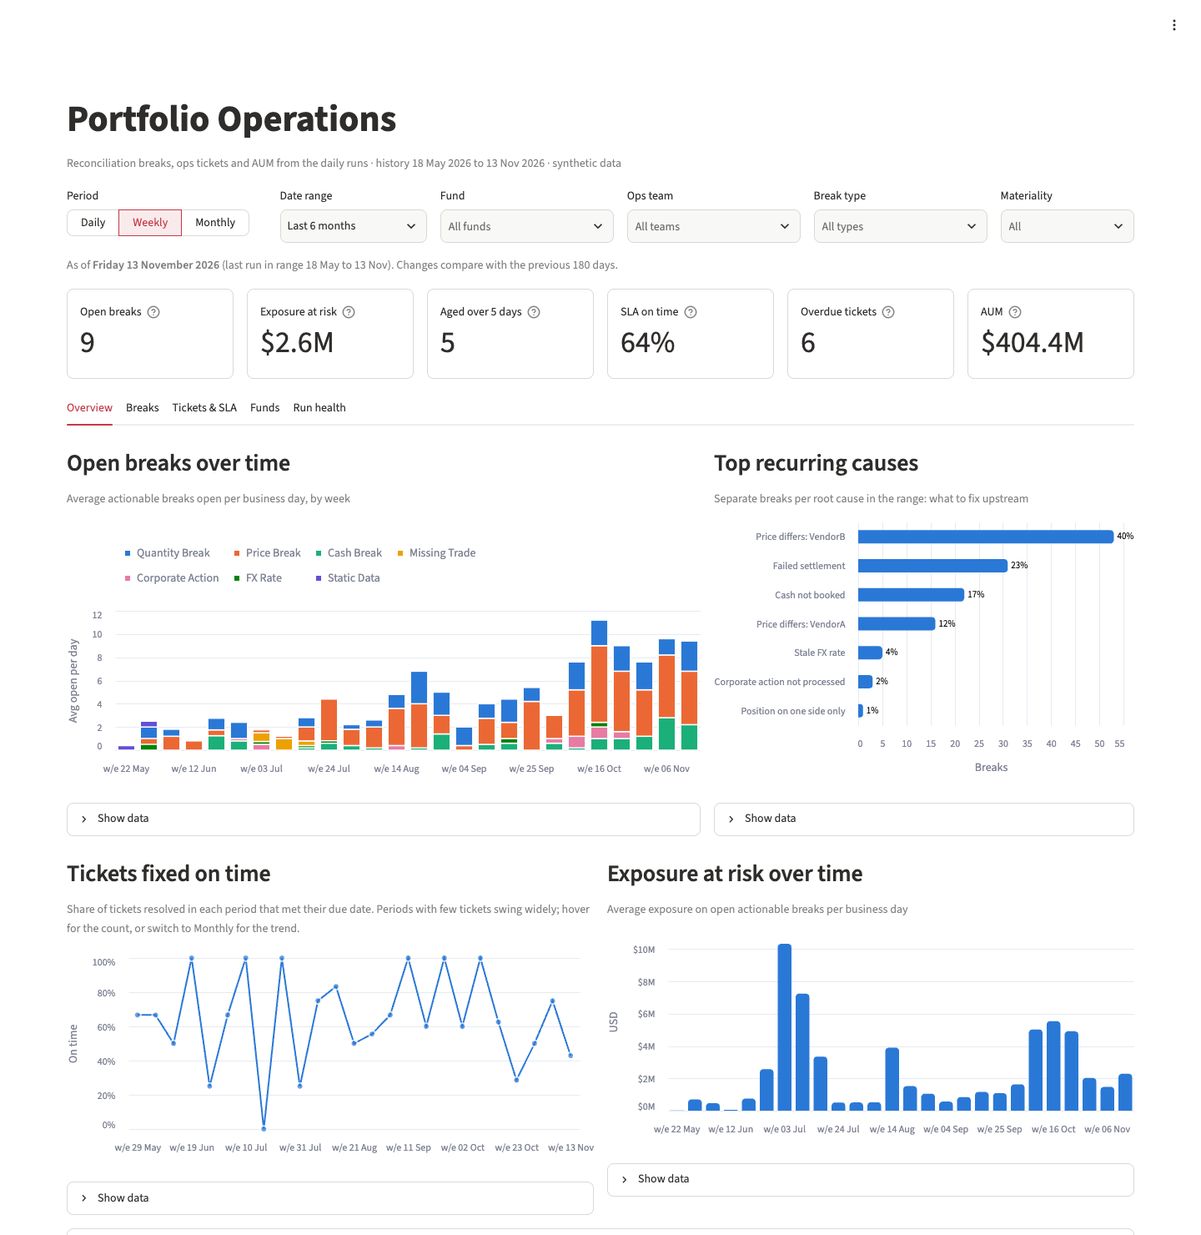
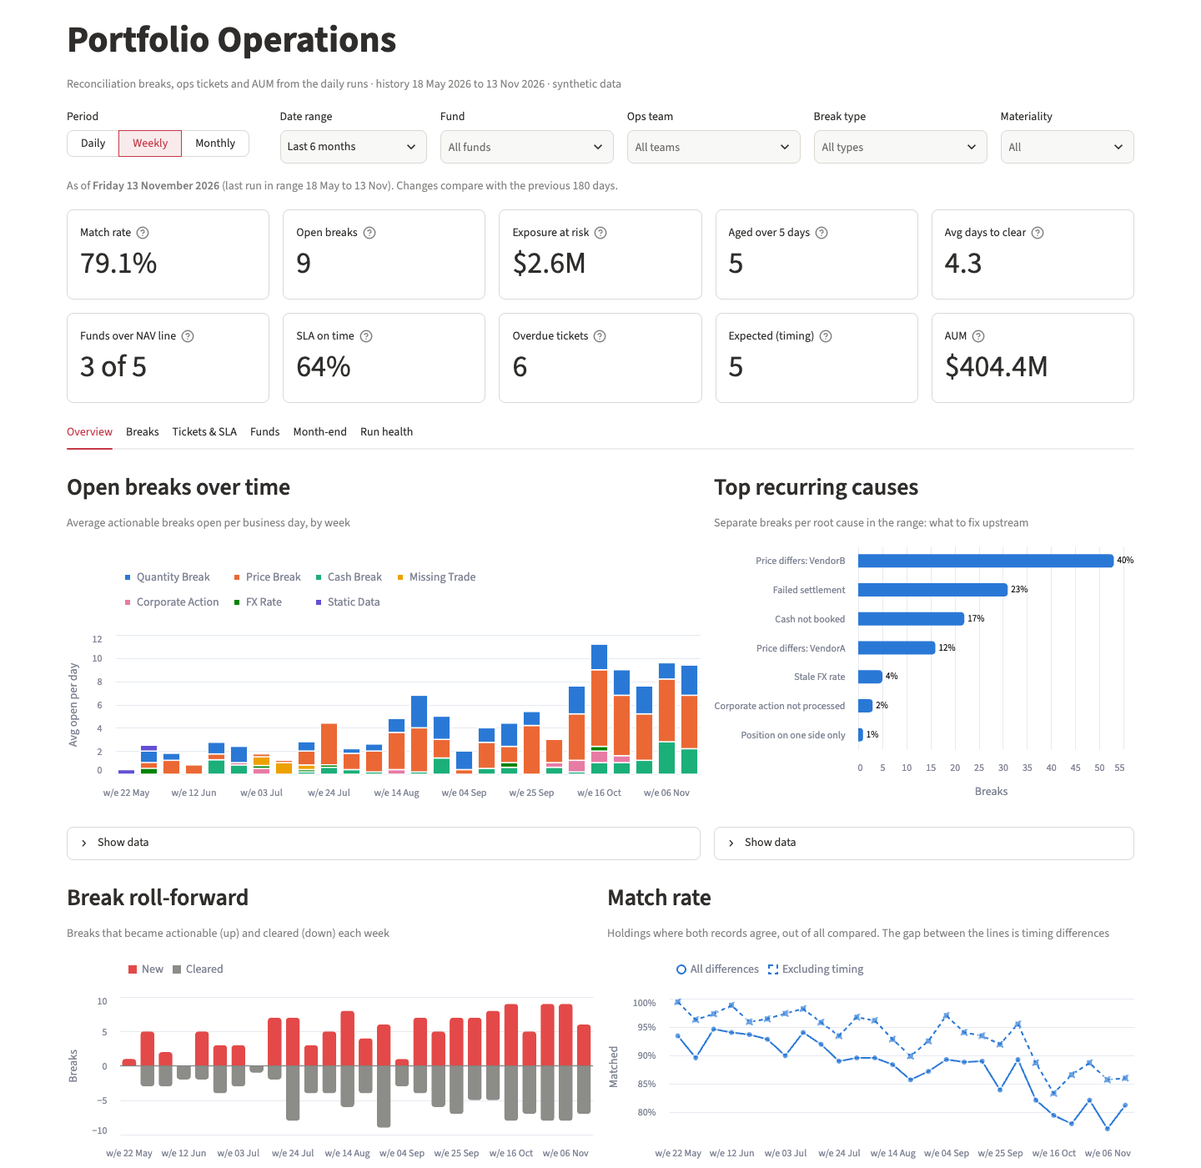
Docs for industry KPIs and month-end sign-off (fixes #33) (#34)
- README: four products for four audiences, the dashboard tabs, the monthly
  pack, the monthend command, the sample-data story, a new screenshot.
- CONCEPTS: how the operation is measured (match rate, aging, roll-forward,
  days to clear, potential NAV impact and why failed settlements are
  excluded, month-end sign-off) and nine glossary terms.
- ARCHITECTURE: schema v2 and its migration, the new dashboard definitions,
  the month-end module, the tests table.
- RUNBOOK: month-end procedure and troubleshooting rows.

diff --git a/README.md b/README.md
@@ -2,8 +2,9 @@
 
 A Python pipeline that checks an investment firm's two records of what its
 funds own against each other **every business day**, keeps the history, and
-turns it into three products: a daily to-do list for operations analysts, a
-weekly report, and a leadership dashboard.
+turns it into four products: a daily to-do list for operations analysts, a
+weekly report, a leadership dashboard, and a month-end sign-off pack for fund
+controllers.
 
 > A self-directed project modelling a real reporting workflow in asset
 > management. All data is synthetic.
@@ -11,7 +12,7 @@ weekly report, and a leadership dashboard.
 **New to this industry?** Start with [docs/CONCEPTS.md](docs/CONCEPTS.md): the
 business explained with everyday analogies and a glossary.
 
-![Leadership dashboard: KPI tiles, open breaks over time by type, top recurring causes, SLA and exposure trends](docs/images/dashboard_overview.png)
+![Leadership dashboard: match rate, open breaks, exposure, aging, days to clear, funds over the NAV line, SLA; open breaks over time by type, top recurring causes, break roll-forward and match rate trends](docs/images/dashboard_overview.png)
 
 ## The problem, in plain English
 
@@ -35,15 +36,16 @@ it is agreed but reaches the bank a day or two later. Those are **Expected**
 and need no action. The rest are **Actionable** and get a Jira ticket with a
 deadline.
 
-## Three products, three audiences
+## Four products, four audiences
 
 | Product | Who uses it | Question it answers | How often |
 |---|---|---|---|
 | **Exceptions file** (Excel) | Ops analysts | What do I need to fix today, most urgent first? | Every business day |
-| **Weekly report** (Excel, 7 tabs) | Ops leads, fund controllers | Where do we stand this week: breaks, fund values, ticket deadlines? | Weekly |
-| **Dashboard** (web) | Managers, leadership | Are we keeping up? Which team, fund or root cause is the problem? Daily, weekly or monthly | Any time |
+| **Weekly report** (Excel, 7 tabs) | Ops leads | Where do we stand this week: breaks, fund values, ticket deadlines? | Weekly |
+| **Dashboard** (web) | Managers, leadership | Are we keeping up? Which team, fund or root cause is the problem? Could any fund's price be wrong? Daily, weekly or monthly | Any time |
+| **Month-end sign-off pack** (Excel) | Fund controllers | Is each fund ready to sign off for the month, and if not, why not? | Monthly |
 
-All three read the same daily results, so they cannot disagree with each other.
+All four read the same daily results, so they cannot disagree with each other.
 
 ## Pain points this solves
 
@@ -56,6 +58,9 @@ All three read the same daily results, so they cannot disagree with each other.
 | "They don't match" with no idea why | Each break is labelled with a type, a likely cause, and an ID it keeps until it is fixed |
 | Nobody knows which tickets are late | Each break is linked to its Jira ticket; open, overdue and on-time rates per team |
 | Leadership sees today, never the trend | Six months of daily history, viewable by day, week or month, with the top recurring causes |
+| "How many breaks?" doesn't say whether we're keeping up | Industry measures: match rate, aging bands, a break roll-forward (opened, cleared, still open) and average days to clear |
+| Nobody can say whether a break could make a fund's price wrong | Potential NAV impact per fund in cents per share, against the 1-cent and 0.5% lines used in US fund practice |
+| Month-end sign-off is a scramble through spreadsheets | Five checks per fund give Ready to sign or Needs attention, with the reasons, in a pack ready to sign |
 | An upstream change breaks the script at 7am | A runbook maps each error message to a cause and an action; a failed day is recorded, not skipped silently |
 
 ## How it works, end to end
@@ -83,6 +88,7 @@ flowchart LR
         X1["Exceptions file<br/>analysts, daily"]
         X2["Weekly report<br/>ops leads"]
         D["Dashboard<br/>leadership"]
+        M["Sign-off pack<br/>controllers, monthly"]
     end
 
     C --> V
@@ -94,6 +100,7 @@ flowchart LR
     V -->|"yes"| R --> E --> T --> H
     T --> X1
     H --> D
+    H --> M
     R -.-> X2
 ```
 
@@ -106,7 +113,8 @@ flowchart LR
    appears until it clears, and is linked to its ticket.
 3. **History.** Each day's results are saved, including days that failed.
 4. **Products.** The analysts' exceptions file is written each morning; the
-   dashboard reads the history; the weekly report runs on Fridays.
+   dashboard reads the history; the weekly report runs on Fridays; the
+   sign-off pack is built from the history once the month is over.
 
 The step-by-step technical version, with a module map, is in
 [docs/ARCHITECTURE.md](docs/ARCHITECTURE.md).
@@ -126,13 +134,26 @@ The step-by-step technical version, with a module map, is in
 tabs: Summary, Breaks, AUM, Ops SLA, Overdue Tickets, Data Quality, Run Info.
 
 **Dashboard:** filters for period (daily, weekly, monthly), date range, fund,
-ops team, break type and materiality. Tabs: Overview, Breaks, Tickets & SLA,
-Funds, Run health.
+ops team, break type and materiality.
 
-In the sample data (six months to 13 Nov 2026): 5 funds worth $404M; open
-breaks per day roughly triple from October as fixes slow down; the top
-recurring cause is one pricing vendor (40% of breaks). That is the kind of
-pattern the dashboard is built to surface.
+| Tab | What it shows |
+|---|---|
+| Overview | Ten headline tiles; open breaks over time by type; top recurring causes; break roll-forward; match rate; tickets fixed on time; exposure |
+| Breaks | Aging profile over time and today; every open break; securities that keep breaking |
+| Tickets & SLA | Each ops team's open, overdue and on-time figures; ticket ages |
+| Funds | Per fund: AUM, match rate, open breaks; potential NAV impact against the 1-cent line; AUM over time |
+| Month-end | Each fund Ready to sign or Needs attention, the five checks, and the pack to download |
+| Run health | Every business day OK, failed or missing; data-quality findings |
+
+**Monthly:** `output/monthend/<yyyy-mm>/monthend_signoff_<yyyymm>.xlsx` with
+tabs Sign-off, Checks, Open at Month-end, Roll-forward, NAV Impact, Run Log.
+
+In the sample data (six months to 13 Nov 2026): 5 funds worth $404M. From
+October, open breaks per day roughly triple and the match rate falls from about
+92% to 79%. The top recurring cause is one pricing vendor (40% of breaks), and
+its wrong prices are what push funds over the 1-cent NAV line. In October only
+1 of 5 funds is ready to sign at month-end, against 3 of 5 in June. That is the
+kind of pattern the dashboard is built to surface.
 
 ## Try it
 
@@ -153,6 +174,9 @@ python3 -m venv .venv && .venv/bin/pip install -r requirements-dev.txt
 # One day, as an analyst would each morning
 .venv/bin/python -m opsreport daily --as-of 2026-11-13
 
+# The month-end sign-off pack for October
+.venv/bin/python -m opsreport monthend --month 2026-10
+
 # The weekly report (sample files are included)
 .venv/bin/python -m opsreport run --as-of 2026-11-13 --prior 2026-11-06
 
@@ -164,6 +188,7 @@ python3 -m venv .venv && .venv/bin/pip install -r requirements-dev.txt
 |---|---|
 | `daily --as-of DATE` | Reconcile one business day, save it to the history, write the exceptions file |
 | `backfill --from A --to B` | Run every business day in a range, in order. A bad day is recorded and the rest continue |
+| `monthend --month YYYY-MM` | The month-end sign-off pack, from the history |
 | `run --as-of DATE --prior DATE` | The weekly report |
 | `run ... --jira live` | Pull tickets from Jira now (needs `.env`) instead of the saved copy |
 | `run ... --commentary local-llm` | Have a local AI model write the summary; see [AI commentary](docs/AI_COMMENTARY.md) |
@@ -197,6 +222,7 @@ opsreport/          the application
   daily.py          the daily run and backfill
   history.py        the SQLite history store
   dashboard_data.py every number on the dashboard
+  monthend.py       the month-end sign-off checks
   pipeline.py       the weekly run
 dashboard/app.py    the leadership dashboard (Streamlit)
 config/             settings: column names, tolerances, holidays, funds
@@ -226,7 +252,8 @@ optionally Ollama for a local language model.
 ## Limits
 
 This is a learning project, not production software. The data is synthetic;
-fund value is simplified to total assets; one holiday calendar is used for all
+fund value is simplified to total assets; the funds are small and their shares
+outstanding fixed, so the NAV-impact figures are illustrative; one holiday calendar is used for all
 markets; trades don't move cash; tickets in the daily history are generated
 alongside the breaks rather than created in Jira (creating them automatically
 is the next step); and the AI fact-checker catches wrong numbers, not every

diff --git a/docs/ARCHITECTURE.md b/docs/ARCHITECTURE.md
@@ -220,19 +220,25 @@ field is needed. Ticket status is computed *as of the run date* (Open, Overdue,
 Resolved), not taken from Jira's current status, so history stays true to the
 day. A ticket whose own dates are incomplete is linked but shown as Unknown.
 
-**History store** (`history.py`, SQLite, schema version checked on open):
+**History store** (`history.py`, SQLite, schema version 2):
 
 | Table | One row per | Holds |
 |---|---|---|
 | `runs` | business day | status OK / FAILED, counts, actionable $, errors, warnings, message, git commit, input fingerprints |
 | `breaks` | day and break | type, status, explanation, likely cause, exposure, materiality, pricing vendor, first seen, days open, ticket and its status that day |
-| `aum_daily` | day and fund | AUM components and the custodian total |
+| `aum_daily` | day and fund | AUM components, the custodian total, holdings compared (for the match rate) and shares outstanding (for NAV impact) |
 | `data_quality` | finding | severity, rule, detail, record |
 | `tickets` | ticket | the latest Jira snapshot, with each ticket's break ID |
 
 Saving a day deletes and re-inserts that day's rows in one transaction, so a
 re-run is safe and a crash leaves the previous version intact. A failed day
 is saved with its errors and no breaks.
+
+The schema version lives in `PRAGMA user_version`. Opening an older database
+upgrades it in place (`MIGRATIONS`: version 1 → 2 adds the two `aum_daily`
+columns). Days saved before a column existed keep NULL there, and the dashboard
+shows n/a for them rather than a wrong number; a backfill fills them in. A
+database from a *newer* version of the code is refused.
 
 **Backfill** runs each business day in order (NYSE calendar), records a bad
 day and continues, writes the exceptions file only for the last day, and exits
@@ -252,10 +258,37 @@ from `opsreport/dashboard_data.py`, which is unit-tested:
 | SLA on time | Tickets resolved in the range (or period) that met their due date |
 | AUM over time | Value on the last run of each period |
 | Recurring causes | Separate breaks per root cause (failed settlement, price by vendor, ...), not days, so one stuck break can't dominate |
+| Match rate | 1 − breaks ÷ holdings compared (a holding on either side counts once). Second line leaves out Expected breaks. Only the fund filter applies |
+| Aging profile | Open breaks per day by age band (`aging_bands` in `config/recon.yaml`); the 6+ bands equal the "aged over 5 days" tile |
+| Roll-forward | Per successful run: *new* = actionable today but not on the previous run; *cleared* = the reverse. Failed days are skipped, so opening + new − cleared = closing holds exactly for any filter and grain |
+| Days to clear | Business days from first seen to the run on which the break was gone |
+| NAV impact | Per fund: sum of signed `base_mv_diff` on actionable breaks, excluding failed settlements, ÷ shares outstanding (cents per share) and ÷ AUM (% of NAV). Levels from `nav_impact` in `config/recon.yaml` |
 
 Weekly periods end on Friday; monthly periods start on the 1st. The chart
 colours are a fixed, colour-blind-checked palette: each break type keeps its
 colour under any filter, and every chart has a table view.
+
+## Month-end sign-off
+
+`monthend.py` builds a `MonthEnd` for a calendar month from the same history
+and the same `dashboard_data` functions, so the pack, the dashboard tab and
+the daily figures can't disagree. Five checks per fund on the month's last
+business day:
+
+| Check | Source |
+|---|---|
+| Every day reconciled | `runs`: no FAILED day, no business day without a run |
+| No high-materiality break | open actionable breaks with materiality High |
+| NAV impact under 1¢ a share | `nav_impact_daily` on that day |
+| No break older than 10 days | `days_open` above the last age band |
+| No overdue ticket | tickets open and past due *as of* that day |
+
+Status: Ready to sign (all pass), Needs attention (reasons listed by problem,
+e.g. `Overdue tickets: 1 (OPSREC-107)`), or In progress (the last business day
+hasn't run yet; checks show where the fund would stand today).
+`report/monthend_report.py` writes the pack (Sign-off with blank sign-off
+columns, Checks, Open at Month-end, Roll-forward, NAV Impact, Run Log) to a
+file for `opsreport monthend` or to memory for the dashboard's download button.
 
 ## Security
 
@@ -290,7 +323,8 @@ colour under any filter, and every chart has a table view.
 | `test_ai_commentary.py` | The fact-checker rejects wrong drafts and accepts correct ones |
 | `test_daily_data.py` | The daily generator: every day reconciles exactly to its answer key; tickets link to breaks; the trend is present |
 | `test_daily_run.py` | Pending-trade rules, loader validation, break IDs and days open, point-in-time ticket status, idempotent re-runs, failed days, the exceptions file, CLI |
-| `test_dashboard.py` | Dashboard figures against direct calculations, filters, grouping consistency across grains, run health, and the real app rendered with every grain and filter |
+| `test_dashboard.py` | Dashboard figures against direct calculations, filters, grouping consistency across grains, run health, exact identities (roll-forward, aging bands, match-rate counts), failed settlements never reaching NAV impact, and the real app rendered with every grain and filter |
+| `test_monthend.py` | A hand-built clean month is Ready to sign; each check is then failed alone and must fail only that fund and check; failed and missing days; a month in progress; the pack's tabs and rows; CLI errors |
 
 Tests read a frozen copy of the Jira snapshot (`tests/fixtures/snapshots/`), so
 replacing the real one with a fresh pull can't change test results.
@@ -315,6 +349,8 @@ CI (GitHub Actions) runs on every push and pull request:
 - **One source of truth.** The exceptions file, the dashboard and every period
   view read the same daily rows.
 - **Known simplifications.** One holiday calendar for all markets; AUM is total
-  assets, not net of liabilities; each position gets one break type even if two
+  assets, not net of liabilities; shares outstanding are fixed per fund (real
+  funds update them daily); the synthetic funds are small, so ordinary breaks
+  cross the 1-cent line more often than at a large fund; each position gets one break type even if two
   things are wrong; trades don't move cash; daily tickets are generated with
   the data rather than created in Jira; all data is synthetic.

diff --git a/docs/CONCEPTS.md b/docs/CONCEPTS.md
@@ -137,6 +137,59 @@ sample data one pricing vendor ("VendorB") is behind 40% of all breaks: a
 conversation with that vendor would prevent more breaks than any amount of
 faster fixing.
 
+## How the operation is measured
+
+Counting today's breaks says little on its own. These are the measures
+reconciliation teams and fund controllers use across the industry, and the
+ones the dashboard shows.
+
+**Match rate.** Of all the holdings compared today, the share where both
+records agree. 67 holdings, 14 with a difference: 79% matched. Shown twice:
+counting every difference, and leaving out timing differences (which fix
+themselves). A falling match rate is the earliest sign that something upstream
+has changed.
+
+**Aging.** How long open breaks have been open, in bands: 0–1, 2–5, 6–10 and
+11+ business days. A new break is normal; one that is three weeks old means
+nobody can fix it, or nobody is trying. Like an unpaid-invoices report sorted
+by how overdue each one is.
+
+**Roll-forward.** Opening breaks + new − cleared = closing breaks, for each
+week or month. Like a bank statement: opening balance, money in, money out,
+closing balance. If more break each week than get fixed, the backlog grows
+even when every single break is handled well.
+
+**Days to clear.** For breaks that were fixed: business days from first
+appearing to gone. Here, 4.3 on average.
+
+**Potential NAV impact.** A fund's price per share (its NAV) is worked out
+from the accounting books. If a break means the *books* are wrong, the price is
+wrong. Net up a fund's unexplained breaks and divide by its shares: that is how
+far the price could be off. Two lines are common US practice:
+
+| Price off by | What usually happens |
+|---|---|
+| Under 1 cent a share | Treated as immaterial |
+| 1 cent a share or more | A **NAV error**: reported to the fund's board, and the fund is usually reimbursed |
+| 0.5% of NAV or more | Investors' purchases and redemptions at the wrong price are **reprocessed** |
+
+Two kinds of break are left out, because the books are right in both:
+*timing* breaks (the trade is agreed but not yet delivered) and *failed
+settlements* (the delivery date has passed but the other side hasn't
+delivered). Funds record trades on the trade date, so in both cases the books
+already show the correct holding and the custodian is the one waiting. A failed
+settlement is a settlement risk to chase, not a pricing error. It is called
+*potential* impact because breaks are normally fixed before the day's price is
+struck.
+
+**Month-end sign-off.** Once a month a fund controller signs that each
+fund's records were reconciled. A fund is **Ready to sign** when, on the
+month's last business day: every business day was reconciled, no
+high-value break is open, the NAV impact is under 1 cent a share, no break is
+older than 10 business days, and no ticket is overdue. Otherwise it **Needs
+attention**, with the reasons listed, and the controller either waits for a
+fix or writes down why the open item is acceptable.
+
 ## The numbers on the report
 
 **Market value (MV).** What a holding is worth: quantity × price.
@@ -174,19 +227,29 @@ holidays such as Thanksgiving.
 | Book of record | The official version of the truth; here, fund accounting |
 | Actionable break | A break someone has to investigate and fix |
 | Aged break | An actionable break open more than 5 business days |
+| Aging bands | Open breaks grouped by age: 0–1, 2–5, 6–10, 11+ business days |
+| Days to clear | Business days from a break first appearing to it being gone |
 | Break | A difference between the custodian's record and the accounting record |
 | Break ID | The name a break keeps from the day it appears until it clears, e.g. `BRK-20261113-EMD-<ISIN>` |
 | Control total | The total printed on a statement, used to check that every row was read |
 | Custodian | The bank that holds a fund's assets for safekeeping |
+| Fund controller | The person accountable for a fund's books; signs off its reconciliation each month |
 | Expected break | A break fully explained by a trade that hasn't reached its settlement date yet |
 | Depository | The central institution where securities are ultimately held (e.g. DTC in the US, Euroclear in Europe). A custodian may hold one position across several |
+| Match rate | The share of holdings compared where both records agree |
+| Month-end sign-off | A controller's monthly confirmation that a fund's records were reconciled; open items are explained |
 | ISIN | A 12-character code that uniquely identifies a security worldwide; the last character is a check digit |
 | Lot | One row of a holding on the custodian statement, when a holding is split across locations |
 | NAV | Net asset value: what a fund is worth; the basis for its price per share |
+| NAV error | The published price per share was wrong by 1 cent or more; reported to the fund's board |
+| NAV impact (potential) | How far a fund's price per share would be off if its open unexplained breaks are errors in the books |
+| Reprocessing | Redoing investors' purchases and redemptions at the corrected price, usually for an error of 0.5% of NAV or more |
+| Roll-forward | Opening + new − cleared = closing, for breaks in a period |
 | Failed settlement | A trade whose settlement date passed without the shares or cash arriving |
 | Pending trade | A trade booked in the accounting books but not yet settled at the custodian |
 | Position | How much of one security a fund holds |
 | Security | Anything tradeable a fund holds: a share, a bond, an ETF |
+| Shares outstanding | How many shares of a fund investors hold; NAV ÷ shares = price per share |
 | Security master | The reference list of facts about each security (name, currency, type) |
 | Root cause | Why a break happened (a vendor's price, a late settlement); counting them shows what to fix upstream |
 | Settlement | The moment shares and cash actually change hands, usually one business day after the trade is agreed |

diff --git a/docs/RUNBOOK.md b/docs/RUNBOOK.md
@@ -5,6 +5,7 @@ business day, keep the history, and report it: a daily exceptions file for
 analysts, a weekly report for ops leads, and a dashboard for leadership.
 **Cadence:** Daily run each business morning for the previous business day.
 Weekly report for the Friday date, Monday before the 10:00 ops review.
+Month-end sign-off pack after the month's last business day has run.
 **Owner:** Reporting analyst. **Consumers:** Ops analysts and leads
 (Reconciliation, NAV Oversight, Trade Support, Corporate Actions, Reference
 Data), fund controllers, operations leadership.
@@ -59,6 +60,24 @@ It shows whatever is in the history: run the daily job first. The **Run
 health** tab shows every business day as OK, FAILED or missing; check it
 before presenting numbers. "As of" on the dashboard is the last *successful*
 run in the selected range.
+
+### Month-end sign-off
+After the last business day of the month has run:
+```bash
+python -m opsreport monthend --month 2026-10
+# -> output/monthend/2026-10/monthend_signoff_202610.xlsx
+```
+The console lists each fund's status and reasons. Send the pack to the fund
+controllers. Before sending:
+- **Run Log** tab: every business day ran. A failed or missing day fails every
+  fund's first check: fix and re-run that day (and the backfill after it), then
+  re-run `monthend`.
+- **Needs attention** is normal, not a run failure. The reasons say what is
+  open; the controller decides whether to wait for a fix or sign with a comment.
+- If the console says the month **is not over**, you ran it early: the figures
+  are a preview.
+The dashboard's **Month-end** tab shows the same checks and downloads the
+same pack.
 
 ## 1. Weekly run checklist
 
@@ -143,7 +162,10 @@ unexpected error (a bug): open an issue with the log attached.
 | `Settlement failed: ... was due` (Action Today) | Shares or cash didn't arrive on the settlement date | Chase the custodian or executing broker; the ticket is Trade Support's |
 | `Unknown (ticket data incomplete)` (ticket status) | The linked Jira ticket is Done with no Resolved Business Date | Fill in the date in Jira; the ticket is also on the Data Quality tab |
 | `no_ticket_snapshot` (DQ warning) | The Jira snapshot file is missing | Breaks are still reported, without tickets; restore the snapshot |
-| `HistoryError: ... schema version` | `history.db` was built by a different version of the code | Rebuild: delete it and run `backfill` (inputs are kept, so nothing is lost) |
+| `HistoryError: ... schema version` | `history.db` was written by a *newer* version of the code (older ones are upgraded automatically) | Update the code, or rebuild: delete it and run `backfill` (inputs are kept, so nothing is lost) |
+| Dashboard shows **n/a** for match rate or NAV impact on older days | Those days were saved before holdings and shares were recorded | Re-run `backfill` over that range |
+| `No successful run in YYYY-MM` (monthend) | The month hasn't been run, or `--db` points at another history | Run the daily job or backfill for that month first |
+| Month-end reason `Days not reconciled` | A failed or missing daily run in the month | Fix and re-run those days, then re-run `monthend` |
 | Dashboard says `No history found` | `data/history.db` not built yet, or `OPSREPORT_DB` points elsewhere | Run `backfill`, or fix the path |
 
 ### DQ errors (exit 2)
